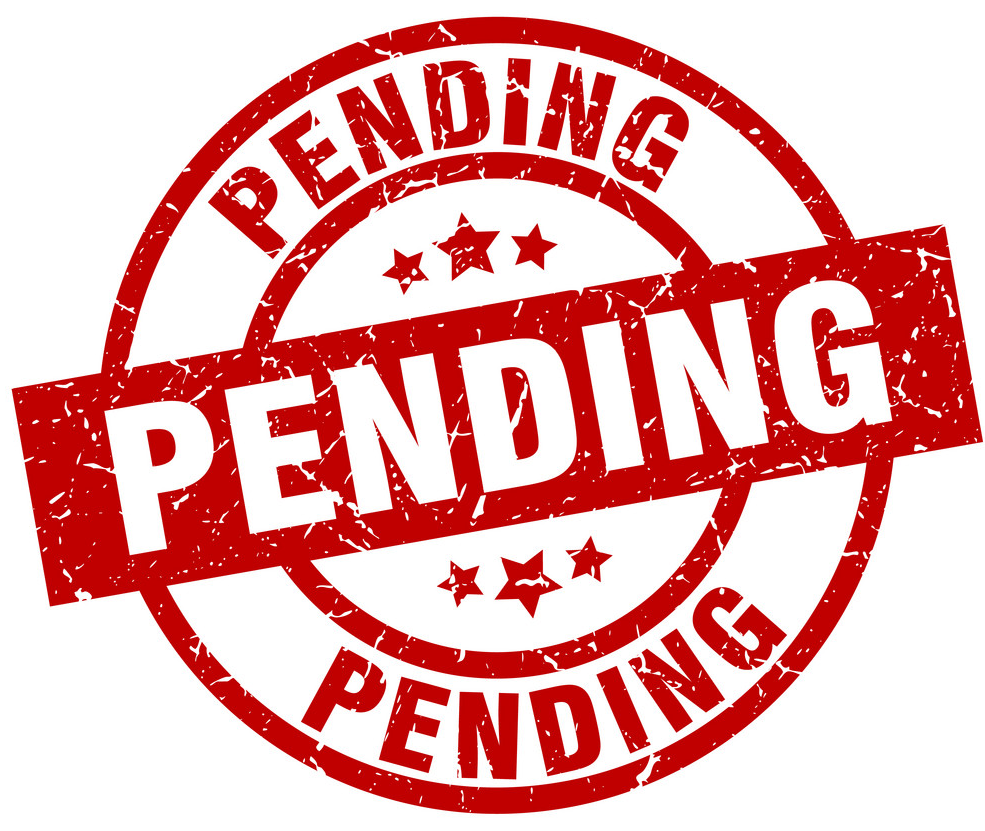
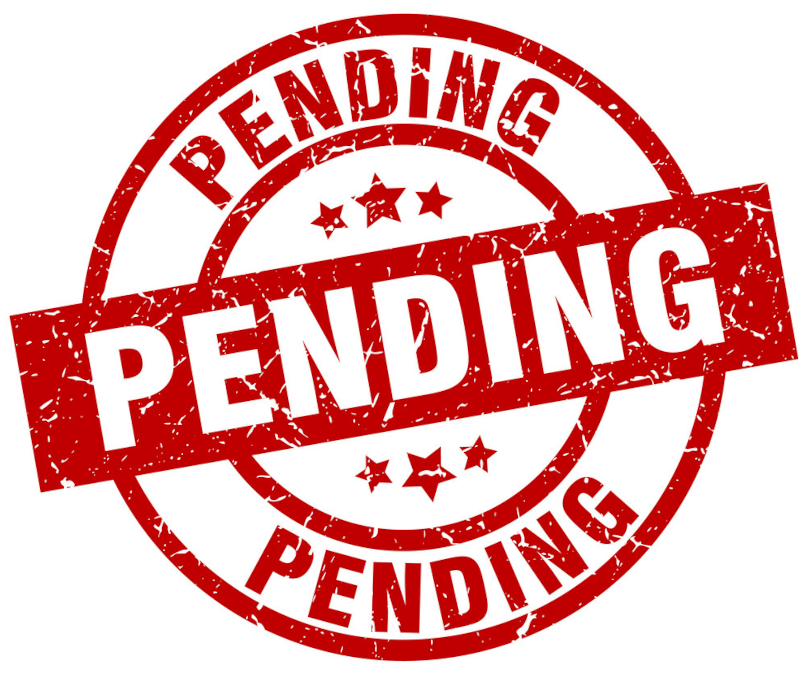
fix content irregular on thumbnails depending on order status

diff --git a/frontend/src/components/main-view/grid-view/thumbnail/Thumbnail.tsx b/frontend/src/components/main-view/grid-view/thumbnail/Thumbnail.tsx
@@ -36,9 +36,10 @@ function Thumbnail({data}: Props) {
         if (model !== Views.NEW && model !== Views.ERROR && id) dispatch(selectors[model](id))
     }
     return (
-        <Card onClick={onClick} sx={{height: 500, width: 345}}>
+        <Card onClick={onClick} sx={{display: "flex", flexDirection: "column", height: 500, width: 345}}>
             <CardHeader title={title} subtitle={subtitle}/>
             <CardMedia
+                sx={{flexGrow: 1}}
                 component="img"
                 height="350"
                 image={picture || images[model]}

diff --git a/frontend/src/slicer/supplierSlice.ts b/frontend/src/slicer/supplierSlice.ts
@@ -12,7 +12,6 @@ import {
 import {emptySupplier, ISupplier} from "../interfaces/ISupplier";
 import {handleApiResponse, handleError, invalidDataError,setPending, stopPendingAndHandleError} from "./errorHelper";
 import {hideDetails} from "./detailsSlice";
-import {getAllProducts} from "./productSlice";
 
 
 const initialState: ISuppliersState = {

diff --git a/frontend/src/slicer/orderSlice.ts b/frontend/src/slicer/orderSlice.ts
@@ -20,7 +20,6 @@ import {
     handleApiResponse
 } from "./errorHelper";
 import {hideDetails} from "./detailsSlice";
-import {getAllProducts} from "./productSlice";
 
 
 const initialState: IOrdersState = {
